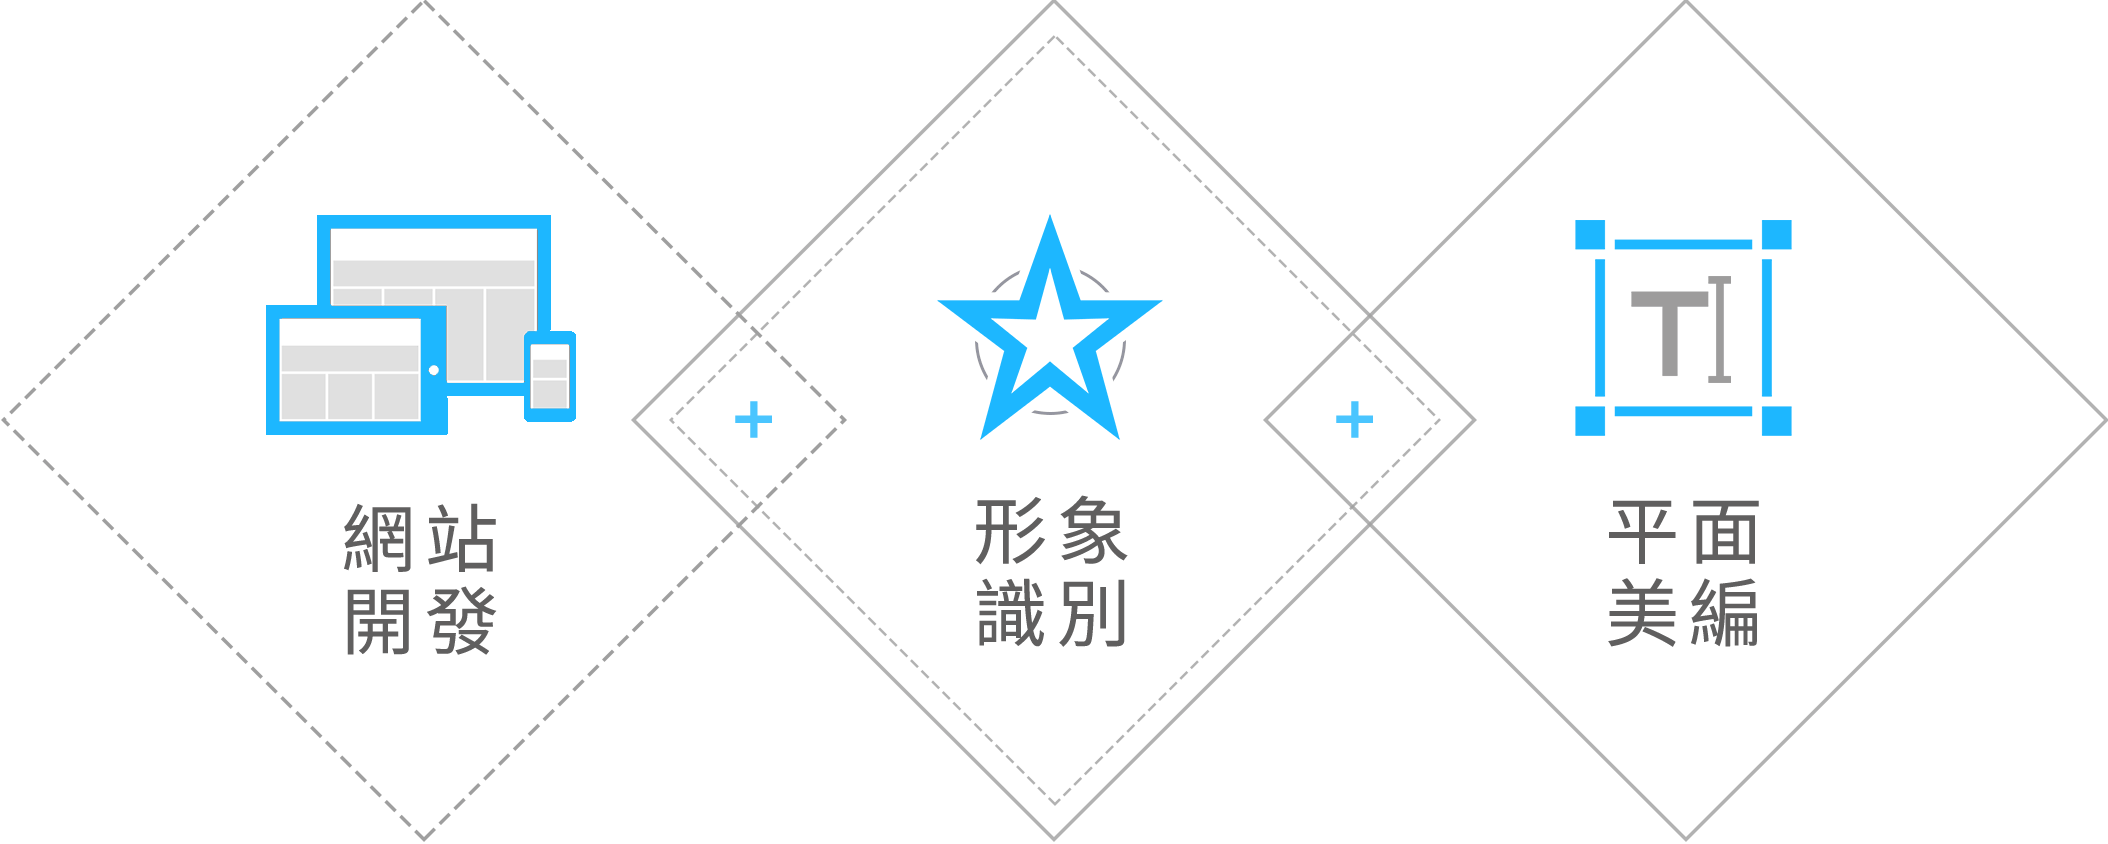
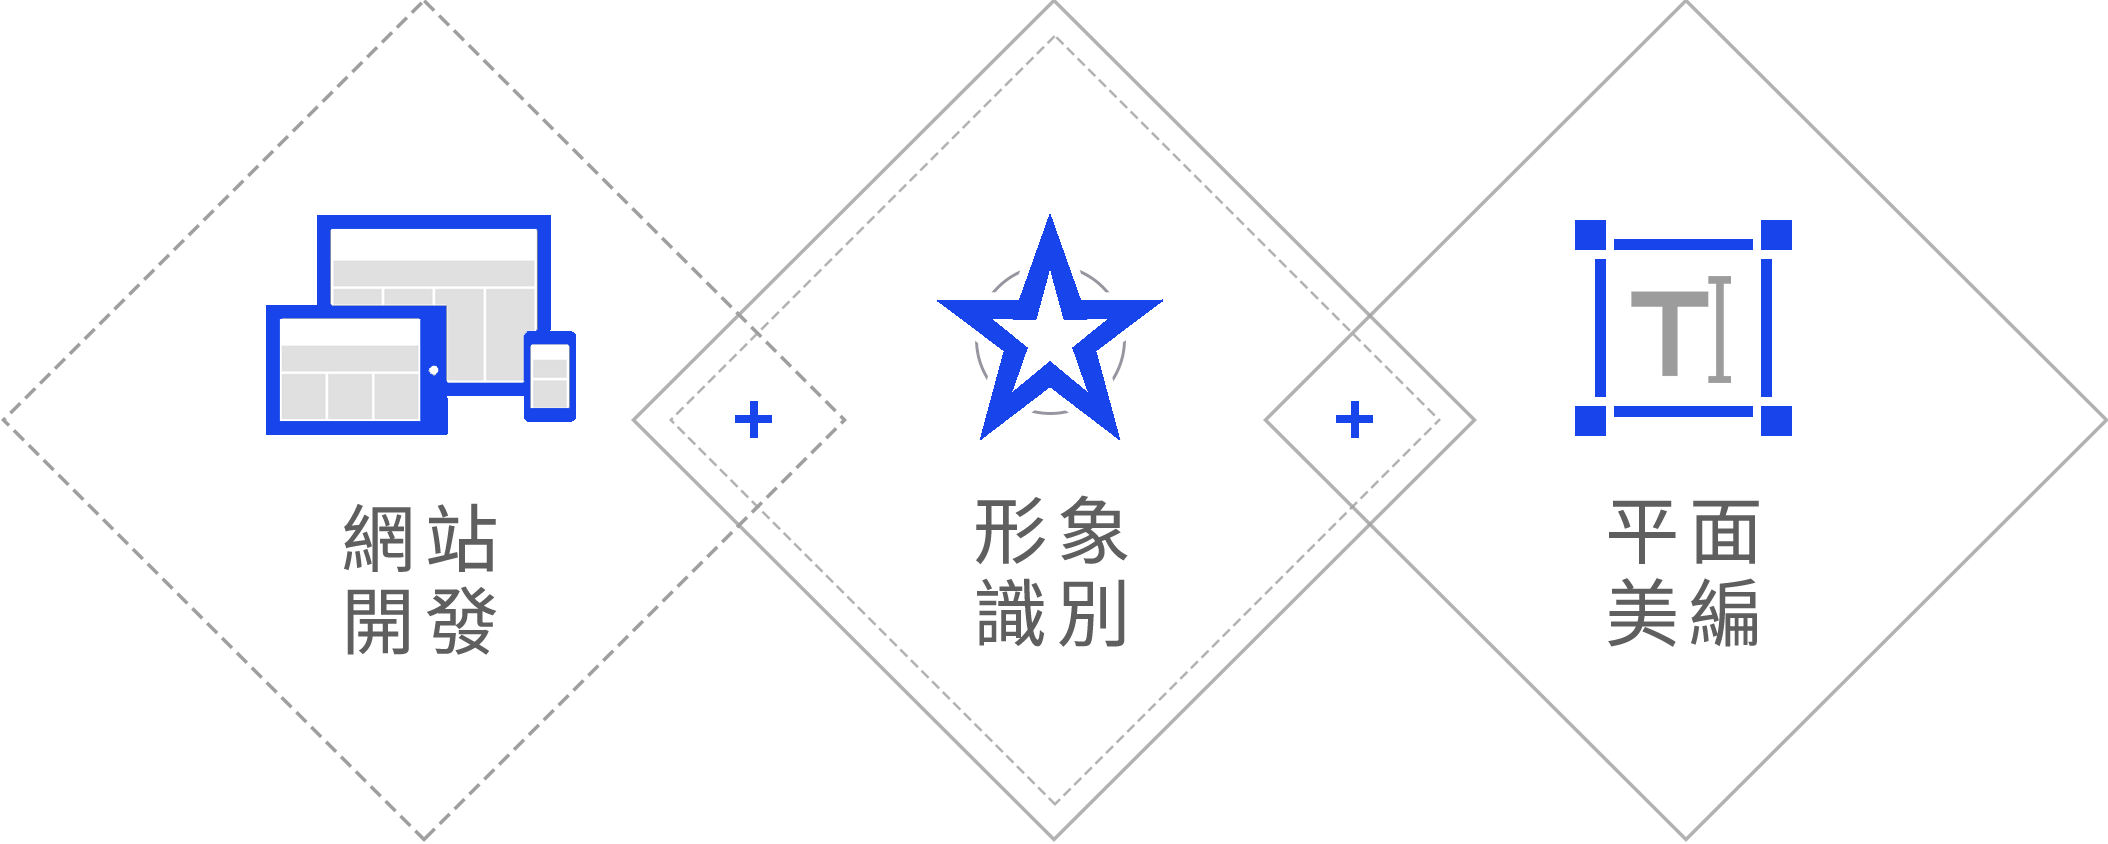
頁面修改 #20200618 - 首頁服務項目顏色變更 - 作品展示列表滑過顏色變更

diff --git a/css/xue-page.css b/css/xue-page.css
@@ -645,7 +645,7 @@ h1 a{
     display: table;
     top:5;
     opacity: 0;
-    background:rgba(0,0,0,.7)}
+    background:rgba(18, 46, 146, 0.7)}
 .ptitle:hover{ opacity: 1}
 .ptitle h4{
     display: table-cell;
